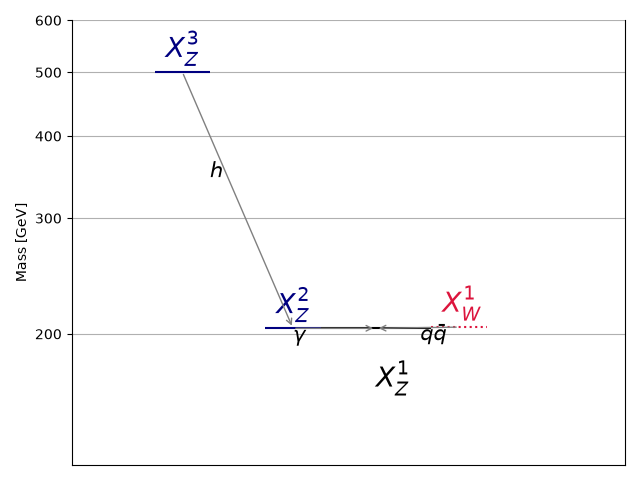
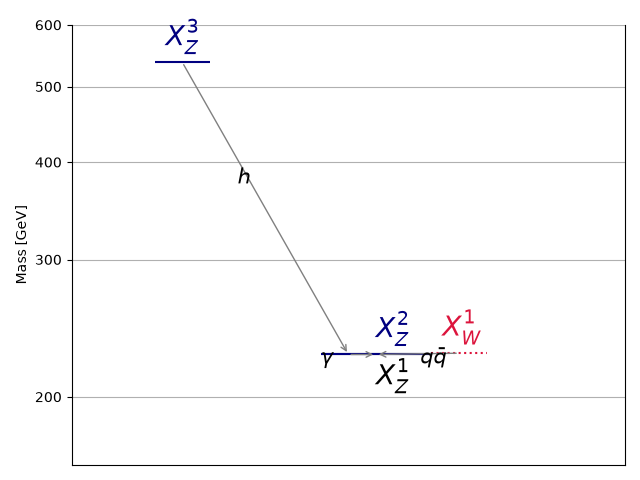
automated update by plotHiscore.py to walk322_4:     K=-0.043 TL=17.85 walkerid=403

diff --git a/protomodels/walk322_4/rawnumbers.html b/protomodels/walk322_4/rawnumbers.html
@@ -1,13 +1,13 @@
 <table>
 <tr><th>Analysis Name</th><th>Type</th><th>Dataset</th><th>Topos</th><th>Observed</th><th>Expected</th><th>Approx &sigma;</th><th>Particles</th>
 </tr>
-<tr><td><a href=https://atlas.web.cern.ch/Atlas/GROUPS/PHYSICS/PAPERS/EXOT-2018-06/>ATLAS-EXOT-2018-06</a></td><td>em</td> <td>EM10</td><td>TChiISR</td><td>413</td><td>359.00 +/- 10.00</td><td style="text-align:right">2.4 &sigma;</td><td style="text-align:right">X<sup>1</sup><sub>Z</sub></td></tr>
-<tr><td><a href=http://cms-results.web.cern.ch/cms-results/public-results/publications/SUS-20-004/>CMS-SUS-20-004</a></td><td>comb</td> <td>-</td><td>TChiHH</td><td> 0.3 fb </td><td> 0.2 fb</td><td style="text-align:right">2.1 &sigma;</td><td style="text-align:right">X<sup>3</sup><sub>Z</sub>, X<sup>1</sup><sub>Z</sub></td></tr>
-<tr><td><a href=http://cms-results.web.cern.ch/cms-results/public-results/publications/EXO-20-004/>CMS-EXO-20-004</a></td><td>comb</td> <td>-</td><td>TChiISR</td><td> 6e+01 fb </td><td> 4e+01 fb</td><td style="text-align:right">2.1 &sigma;</td><td style="text-align:right">X<sup>1</sup><sub>Z</sub></td></tr>
-<tr><td><a href=http://cms-results.web.cern.ch/cms-results/public-results/publications/EXO-19-010/>CMS-EXO-19-010</a></td><td>em</td> <td>SR_nlay5</td><td>TDTM1F, TDTM2F</td><td>6</td><td>3.70 +/- 1.24</td><td style="text-align:right">0.8 &sigma;</td><td style="text-align:right">X<sup>1</sup><sub>W</sub>, X<sup>1</sup><sub>Z</sub></td></tr>
-<tr><td><a href=https://atlas.web.cern.ch/Atlas/GROUPS/PHYSICS/PAPERS/SUSY-2018-42/>ATLAS-SUSY-2018-42</a></td><td>em</td> <td>SR200_High_long</td><td>TDTM1F, TDTM2F</td><td>7</td><td>5.50 +/- 0.60</td><td style="text-align:right">0.5 &sigma;</td><td style="text-align:right">X<sup>1</sup><sub>W</sub>, X<sup>1</sup><sub>Z</sub></td></tr>
-<tr><td><a href=https://atlas.web.cern.ch/Atlas/GROUPS/PHYSICS/PAPERS/SUSY-2016-06/>ATLAS-SUSY-2016-06</a></td><td>em</td> <td>SR_EW</td><td>TDTM1F, TDTM2F</td><td>9</td><td>11.80 +/- 3.10</td><td style="text-align:right">-0.7 &sigma;</td><td style="text-align:right">X<sup>1</sup><sub>W</sub>, X<sup>1</sup><sub>Z</sub></td></tr>
+<tr><td><a href=https://atlas.web.cern.ch/Atlas/GROUPS/PHYSICS/PAPERS/EXOT-2018-06/>ATLAS-EXOT-2018-06</a></td><td>em</td> <td>EM10</td><td>TChiISR</td><td>413</td><td>359.00 +/- 10.00</td><td style="text-align:right">2.4 &sigma;</td><td style="text-align:right">X<sup>2</sup><sub>Z</sub>, X<sup>1</sup><sub>Z</sub></td></tr>
+<tr><td><a href=http://cms-results.web.cern.ch/cms-results/public-results/publications/SUS-20-004/>CMS-SUS-20-004</a></td><td>comb</td> <td>-</td><td>TChiHH</td><td> 0.2 fb </td><td> 0.2 fb</td><td style="text-align:right">2.2 &sigma;</td><td style="text-align:right">X<sup>3</sup><sub>Z</sub>, X<sup>2</sup><sub>Z</sub></td></tr>
+<tr><td><a href=http://cms-results.web.cern.ch/cms-results/public-results/publications/EXO-20-004/>CMS-EXO-20-004</a></td><td>comb</td> <td>-</td><td>TChiISR</td><td> 5e+01 fb </td><td> 4e+01 fb</td><td style="text-align:right">2.1 &sigma;</td><td style="text-align:right">X<sup>2</sup><sub>Z</sub>, X<sup>1</sup><sub>Z</sub></td></tr>
+<tr><td><a href=http://cms-results.web.cern.ch/cms-results/public-results/publications/EXO-19-010/>CMS-EXO-19-010</a></td><td>em</td> <td>SR_nlay5</td><td>TDTM1F, TDTM2F</td><td>6</td><td>3.70 +/- 1.24</td><td style="text-align:right">0.8 &sigma;</td><td style="text-align:right">X<sup>1</sup><sub>W</sub>, X<sup>2</sup><sub>Z</sub>, X<sup>1</sup><sub>Z</sub></td></tr>
+<tr><td><a href=https://atlas.web.cern.ch/Atlas/GROUPS/PHYSICS/PAPERS/SUSY-2018-42/>ATLAS-SUSY-2018-42</a></td><td>em</td> <td>SR200_High_long</td><td>TDTM1F, TDTM2F</td><td>7</td><td>5.50 +/- 0.60</td><td style="text-align:right">0.5 &sigma;</td><td style="text-align:right">X<sup>1</sup><sub>W</sub>, X<sup>2</sup><sub>Z</sub>, X<sup>1</sup><sub>Z</sub></td></tr>
+<tr><td><a href=https://atlas.web.cern.ch/Atlas/GROUPS/PHYSICS/PAPERS/SUSY-2016-06/>ATLAS-SUSY-2016-06</a></td><td>em</td> <td>SR_EW</td><td>TDTM1F, TDTM2F</td><td>9</td><td>11.80 +/- 3.10</td><td style="text-align:right">-0.7 &sigma;</td><td style="text-align:right">X<sup>1</sup><sub>W</sub>, X<sup>2</sup><sub>Z</sub>, X<sup>1</sup><sub>Z</sub></td></tr>
 </table>
 <table style='color:grey'>
-<tr><th>Not in Best Combo</th><th>Type</th><th>Dataset</th><th>Topos</th><th>Observed</th><th>Expected</th><th>Approx &sigma;</th><th>Particles</th><tr><td><a href=https://atlas.web.cern.ch/Atlas/GROUPS/PHYSICS/PAPERS/SUSY-2018-19/>ATLAS-SUSY-2018-19</a></td><td>em</td> <td>SR_EW</td><td>TDTM1F, TDTM2F</td><td>3</td><td>3.00 +/- 0.70</td><td style="text-align:right">-0.2 &sigma;</td><td style="text-align:right">X<sup>1</sup><sub>W</sub>, X<sup>1</sup><sub>Z</sub></td></tr>
+<tr><th>Not in Best Combo</th><th>Type</th><th>Dataset</th><th>Topos</th><th>Observed</th><th>Expected</th><th>Approx &sigma;</th><th>Particles</th><tr><td><a href=https://atlas.web.cern.ch/Atlas/GROUPS/PHYSICS/PAPERS/SUSY-2018-19/>ATLAS-SUSY-2018-19</a></td><td>em</td> <td>SR_EW</td><td>TDTM1F, TDTM2F</td><td>3</td><td>3.00 +/- 0.70</td><td style="text-align:right">-0.2 &sigma;</td><td style="text-align:right">X<sup>1</sup><sub>W</sub>, X<sup>2</sup><sub>Z</sub>, X<sup>1</sup><sub>Z</sub></td></tr>
 </table>

diff --git a/protomodels/walk322_4/index.html b/protomodels/walk322_4/index.html
@@ -1,27 +1,27 @@
 <html>
 <body>
 <center>
-<table><td><h1>Current best protomodel: <i>K</i>=-0.11, <i>TL</i>=17.19</h1><td><img height=60px src=https://smodels.github.io//protomodels/logos/protomodel_lego.png></table>
+<table><td><h1>Current best protomodel: <i>K</i>=-0.04, <i>TL</i>=17.85</h1><td><img height=60px src=https://smodels.github.io//protomodels/logos/protomodel_lego.png></table>
 </center>
-<b><a href=./hiscore.slha>ProtoModel</a> <a href=./pmodel.dict>(dict)</a> produced with <a href=https://smodels.github.io//docs/Validation321>database v3.2.1</a>, allowed_extr 0.0 in walker 417 step 13.</b> <br>
+<b><a href=./hiscore.slha>ProtoModel</a> <a href=./pmodel.dict>(dict)</a> produced with <a href=https://smodels.github.io//docs/Validation321>database v3.2.1</a>, allowed_extr 0.0 in walker 403 step 115.</b> <br>
 <table width=80%>
 <tr><td>
 <br><b>Critics:</b> passed both critics<br>
 <br><b>UL Critic: 1/2 analyses exclude</b><br>
-ATLAS-EXOT-2018-06:EM9:: <span style='color: darkred;'>r<sub>obs</sub>=1.504, r<sub>exp</sub>=1.33</span><br>
-CMS-SUS-20-004:ul:: <span style='color: darkgreen;'>r<sub>obs</sub>=0.583, r<sub>exp</sub>=1.134</span><br>
-ATLAS-SUSY-2018-19:SR_EW:: <span style='color: darkgreen;'>r<sub>obs</sub>=0.355, r<sub>exp</sub>=0.346</span><br>
-<br><b>LLHD Critic:</b> CMS-SUS-20-004:CMS-SUS-20-004:matrix.cov, ATLAS-EXOT-2018-06:EM9, CMS-EXO-20-004:CMS-EXO-20-004:matrix.cov, ATLAS-SUSY-2018-19:SR_EW:: <span style='color: darkred;'>r<sub>obs</sub>=1.01, r<sub>exp</sub>=2.23</span><br>
+ATLAS-EXOT-2018-06:EM9:: <span style='color: darkred;'>r<sub>obs</sub>=1.603, r<sub>exp</sub>=1.418</span><br>
+CMS-SUS-20-004:ul:: <span style='color: darkgreen;'>r<sub>obs</sub>=0.533, r<sub>exp</sub>=1.038</span><br>
+ATLAS-SUSY-2018-19:SR_EW:: <span style='color: darkgreen;'>r<sub>obs</sub>=0.324, r<sub>exp</sub>=0.316</span><br>
+<br><b>LLHD Critic:</b> ATLAS-EXOT-2018-06:EM9, CMS-SUS-20-004:CMS-SUS-20-004:matrix.cov, CMS-EXO-20-004:CMS-EXO-20-004:matrix.cov, ATLAS-SUSY-2018-19:SR_EW:: <span style='color: darkred;'>r<sub>obs</sub>=1.01, r<sub>exp</sub>=2.19</span><br>
 </ul>
-<td><img width=600px src=./texdoc.png?1793804694>
-<br><span style='font-size: smaller; color: darkred;'>Last updated: Wed Nov  4 16:04:54 2026</span>
-<br><br><b>7 predictions available. Highest r values are:</b><br><ul>
-<li><a href=https://atlas.web.cern.ch/Atlas/GROUPS/PHYSICS/PAPERS/EXOT-2018-06/>ATLAS-EXOT-2018-06</a>:EM9:TChiISR r=1.50, r<sub>exp</sub>=1.33<br>
-<li><a href=http://cms-results.web.cern.ch/cms-results/public-results/publications/SUS-20-004/>CMS-SUS-20-004</a>:ul:TChiHH r=0.58, r<sub>exp</sub>=1.13<br>
-<li><a href=https://atlas.web.cern.ch/Atlas/GROUPS/PHYSICS/PAPERS/SUSY-2018-19/>ATLAS-SUSY-2018-19</a>:SR_EW:TDTM2F,TDTM1F r=0.36, r<sub>exp</sub>=0.35<br>
-<li><a href=http://cms-results.web.cern.ch/cms-results/public-results/publications/EXO-20-004/>CMS-EXO-20-004</a>:SR_2018_13:TChiISR r=0.23, r<sub>exp</sub>=0.31<br>
+<td><img width=600px src=./texdoc.png?1793808637>
+<br><span style='font-size: smaller; color: darkred;'>Last updated: Wed Nov  4 17:10:37 2026</span>
+<br><br><b>8 predictions available. Highest r values are:</b><br><ul>
+<li><a href=https://atlas.web.cern.ch/Atlas/GROUPS/PHYSICS/PAPERS/EXOT-2018-06/>ATLAS-EXOT-2018-06</a>:EM9:TChiISR r=1.60, r<sub>exp</sub>=1.42<br>
+<li><a href=http://cms-results.web.cern.ch/cms-results/public-results/publications/SUS-20-004/>CMS-SUS-20-004</a>:ul:TChiHH r=0.53, r<sub>exp</sub>=1.04<br>
+<li><a href=https://atlas.web.cern.ch/Atlas/GROUPS/PHYSICS/PAPERS/SUSY-2018-19/>ATLAS-SUSY-2018-19</a>:SR_EW:TDTM1F,TDTM2F r=0.32, r<sub>exp</sub>=0.32<br>
+<li><a href=http://cms-results.web.cern.ch/cms-results/public-results/publications/EXO-20-004/>CMS-EXO-20-004</a>:SR_2018_13:TChiISR r=0.24, r<sub>exp</sub>=0.32<br>
 </table><table style="width:80%">
-<td width=40%><img height=450px src=./mass_hierarchy.png?1793804694><td width=60%><font size=-3><iframe type="text/html" height="350px" width="100%" frameborder="0" src="./rawnumbers.html?1793804694"></iframe></font>
+<td width=40%><img height=450px src=./mass_hierarchy.png?1793808637><td width=60%><font size=-3><iframe type="text/html" height="350px" width="100%" frameborder="0" src="./rawnumbers.html?1793808637"></iframe></font>
 </table>
 </body>
 </html>
